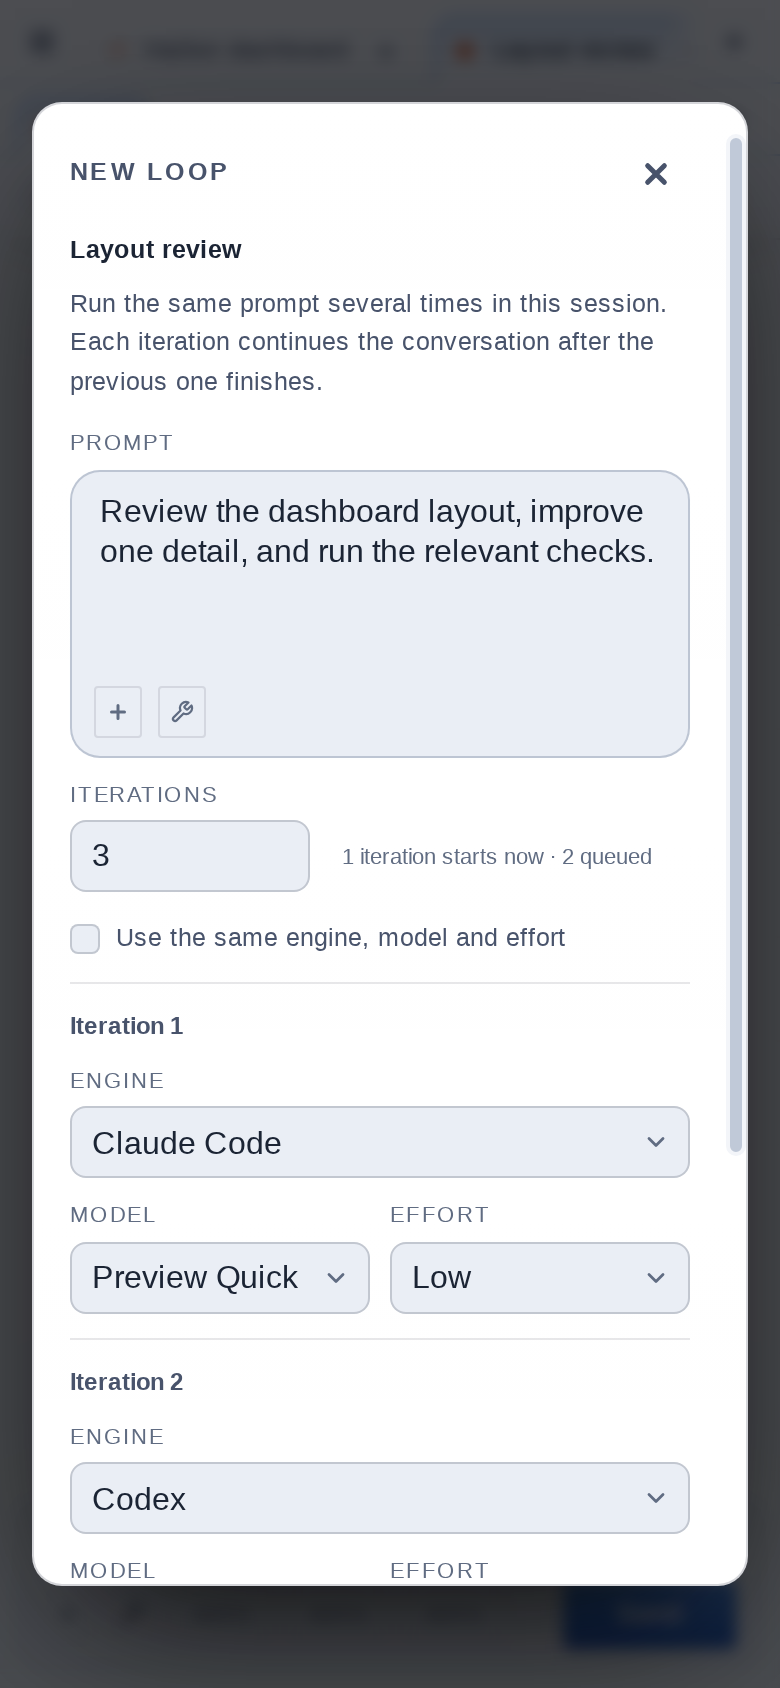
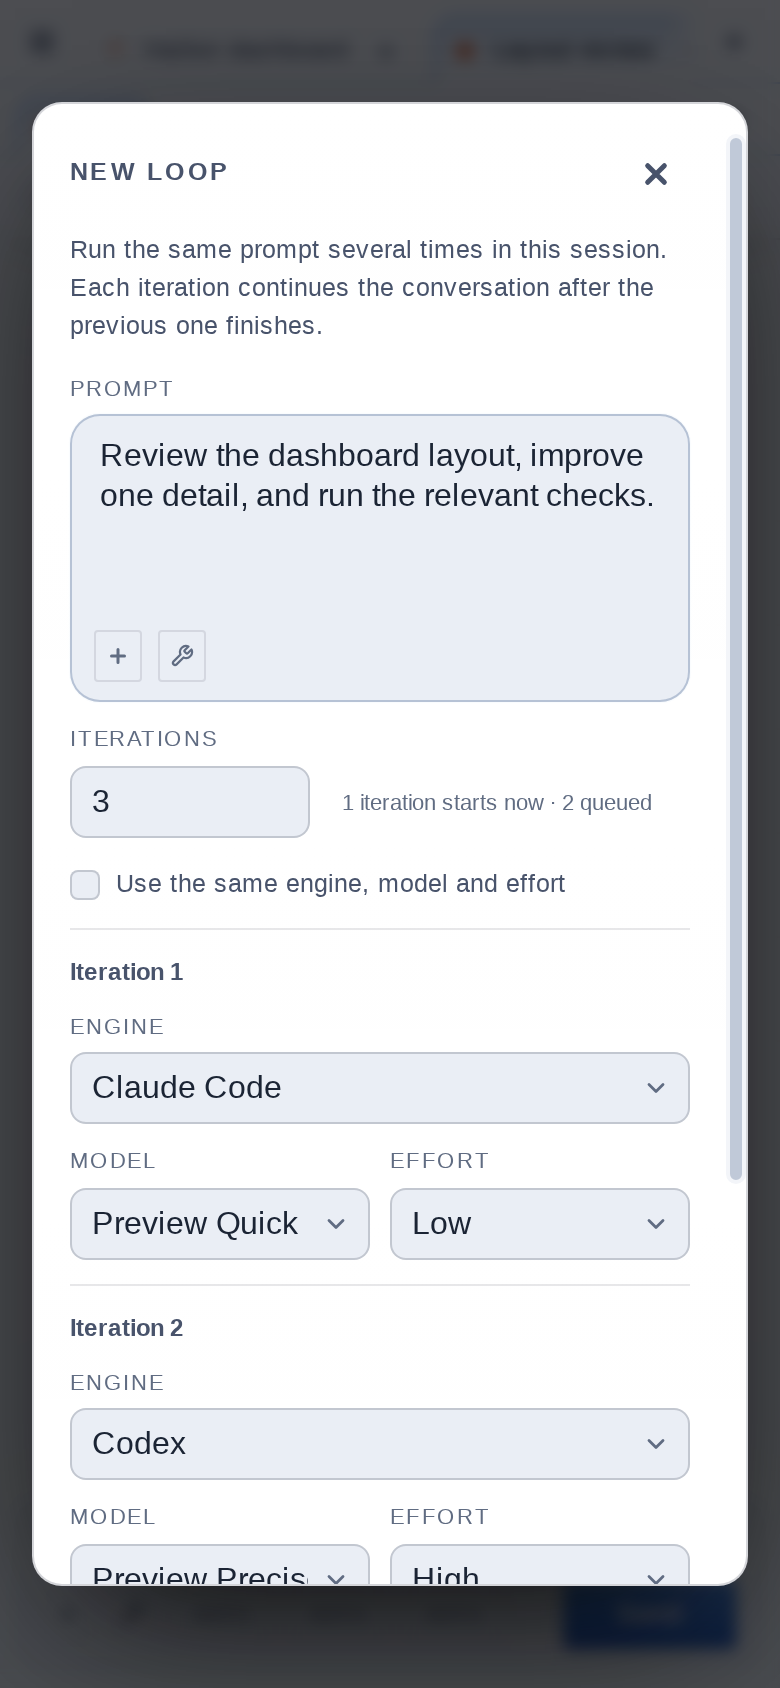
Remove session labels from loop and Git dialogs, v1.0.581
Remove the session name from New loop and the session name and location
from Git repository. Keep the shared dialog spacing and refresh the
anonymized previews, documentation and existing dialog checks.

diff --git a/puppy/static/app.js b/puppy/static/app.js
@@ -6662,23 +6662,19 @@ const SESSION_GIT_KIND_NAMES = {
    there is followed by a read, because what it managed is unknown. */
 function modalSessionGit(bid, s) {
   const { m, close } = modal(`<h2>Git repository</h2>
-    <p class="modal-copy session-git-intro"></p>
     <div class="ws-facts session-git-facts"></div>
     <div class="session-git-body"></div>
     <p class="form-error hidden" role="alert"></p>
     <div class="m-btns"><button type="button" class="btn" id="session-git-close">Close</button>
       <button type="button" class="btn" id="session-git-refresh">Refresh</button></div>`,
     "session-git-modal", () => navigationSessionDialog(bid, s.id, modalSessionGit));
-  const intro = m.querySelector(".session-git-intro"), facts = m.querySelector(".session-git-facts");
+  const facts = m.querySelector(".session-git-facts");
   const body = m.querySelector(".session-git-body"), error = m.querySelector(".form-error");
   const buttons = m.querySelector(".m-btns");
   const closeButton = m.querySelector("#session-git-close");
   const refresh = m.querySelector("#session-git-refresh");
   const actions = backendSupportsSessionGitActions(bid);
   const logs = backendSupportsSessionGitLog(bid);
-  /* the session and its directory under the title, as the agent-notes
-     editor names them */
-  intro.textContent = `${s.name || `Session ${s.id}`} · ${sessionLocationLabel(s, bid)}`;
   /* the row's record until the read answers, then the read's own */
   let record = s.git && typeof s.git === "object" ? s.git : null;
   let root = null, detail = null;
@@ -6700,8 +6696,8 @@ function modalSessionGit(bid, s) {
   };
   const renderFacts = () => {
     facts.replaceChildren();
-    /* the work tree's root, when it is not the session's own directory (the
-       intro names that one), since the paths below are relative to it */
+    /* the work tree's root, when it is not the session's own directory,
+       since the paths below are relative to it */
     if (root && root !== s.cwd) fact("Repository", root);
     const branch = sessionGitBranch(record);
     if (typeof branch === "string")
@@ -16654,7 +16650,6 @@ function modalNewLoop(bid, sid, onStarted = null) {
   let submitting = false, submitted = false, uncertain = false;
   const { m, close, onClose } = modal(`<form class="loop-form" novalidate>
     <h2>New loop</h2>
-    ${modalSubjectHtml(session.name || "This session")}
     <p class="modal-copy">Run the same prompt several times in this session. Each iteration continues the conversation after the previous one finishes.</p>
     <label for="loop-prompt" class="task-composer-lbl">Prompt</label>
     ${composerBoxHtml({ id: "loop-prompt", rows: 3, placeholder: "What should the agent do each time?",

diff --git a/tests/sidebar_ui_test.js b/tests/sidebar_ui_test.js
@@ -509,10 +509,7 @@ assert.equal(bare.document.querySelectorAll(".si-git").length, 0);
     replies = [read];
     context.modalSessionGit(0, row);
     assert.deepEqual(dialogs, ["session-git-modal"]);
-    // the session and its directory under the title, as the agent-notes
-    // editor names them
-    assert.equal(dialog.m.querySelector(".session-git-intro").textContent, "Garden · …/src");
-    assert.ok(dialog.m.querySelector(".session-git-intro").classList.contains("modal-copy"));
+    assert.equal(dialog.m.querySelector(".session-git-intro"), null);
     assert.deepEqual(facts(), [["Branch", "main", ""], ["State", "Uncommitted and unpushed work", "warn"], ["Checked", "at 5", ""]]);
     assert.deepEqual(captions(), ["Changes · 5 · 2 staged, 1 unstaged, 1 untracked, 1 conflict", "Unpushed commits · 2"]);
     assert.deepEqual(lists(), [["Loading…"], ["Loading…"]]);
@@ -602,7 +599,7 @@ assert.equal(bare.document.querySelectorAll(".si-git").length, 0);
       paths: [], commits: [], more_paths: 0, more_commits: 0 };
     replies = [{ ok: true, git: clean.git, root: "/p", detail: bare }];
     context.modalSessionGit(0, clean);
-    assert.equal(dialog.m.querySelector(".session-git-intro").textContent, "Session 2 · …/p");
+    assert.equal(dialog.m.querySelector(".session-git-intro"), null);
     await settle();
     assert.deepEqual(facts(), [["Branch", "main", ""], ["Upstream", "origin/main · up to date", ""],
       ["State", "Nothing to commit or push", "ok"], ["Checked", "at 1", ""]]);

diff --git a/tests/console_browser_test.py b/tests/console_browser_test.py
@@ -4130,21 +4130,8 @@ async def git_sheet_checks(a):
         const reviewStep = parseFloat(style(reviewFacts).rowGap);
         const reviewLabel = style(review.querySelector('.field-lbl')).fontSize;
         review.remove();
-        /* the agent-notes editor, as a probe: the voice of its intro line and
-           the steps from its title down to it and from it down to the first
-           control */
-        const notes = document.createElement('div'); notes.className = 'modal agent-notes-modal';
-        notes.innerHTML = '<div class="modal-head"><h2>Agent notes</h2><button type="button" class="icon-btn modal-close"></button></div><p class="modal-copy agent-notes-intro">Garden planner · /home/mira/projects/garden</p>'
-            + '<form><label class="check"><input type="checkbox"> Use one file for both</label></form>';
-        document.body.appendChild(notes);
-        const notesIntro = notes.querySelector('.agent-notes-intro');
-        const voice = node => [style(node).fontSize, style(node).lineHeight, style(node).color, style(node).fontFamily].join(' ');
-        const notesTitleStep = notesIntro.getBoundingClientRect().top - notes.querySelector('.modal-head').getBoundingClientRect().bottom;
-        const notesIntroStep = notes.querySelector('.check').getBoundingClientRect().top - notesIntro.getBoundingClientRect().bottom;
-        const notesVoice = voice(notesIntro), notesIntroHeight = notesIntro.getBoundingClientRect().height;
-        notes.remove();
-        const intro = m.querySelector('.session-git-intro');
         const facts = m.querySelector('.session-git-facts');
+        const head = m.querySelector('.modal-head');
         const rows = Array.from(m.querySelectorAll('.ws-fact')).map(row => row.getBoundingClientRect());
         const label = m.querySelector('.ws-fact .field-lbl'), caption = m.querySelector('.session-git-section .field-lbl');
         const kind = m.querySelector('.sgl-kind'), list = m.querySelector('.session-git-list');
@@ -4152,13 +4139,11 @@ async def git_sheet_checks(a):
         const staged = m.querySelector('.sgl-group .sgl-rows');
         const what = staged.children[0].getBoundingClientRect(), path = staged.children[1].getBoundingClientRect();
         const commit = m.querySelector('.sgl-commits');
-        return {title: m.querySelector('h2').textContent, intro: intro.textContent,
+        return {title: m.querySelector('h2').textContent, intro: !!m.querySelector('.session-git-intro'),
             facts: Array.from(m.querySelectorAll('.ws-fact')).map(row => [row.querySelector('.field-lbl').textContent, row.querySelector('.wsf-v').textContent]),
             reviewStep, factStep: parseFloat(style(facts).rowGap),
-            notesTitleStep, titleStep: intro.getBoundingClientRect().top - m.querySelector('.modal-head').getBoundingClientRect().bottom,
-            notesIntroStep, introStep: facts.getBoundingClientRect().top - intro.getBoundingClientRect().bottom,
-            notesVoice, introVoice: voice(intro),
-            notesIntroHeight, introHeight: intro.getBoundingClientRect().height,
+            titleStep: facts.getBoundingClientRect().top - head.getBoundingClientRect().bottom,
+            headMargin: parseFloat(style(head).marginBottom),
             steps: rows.slice(1).map((box, i) => box.top - rows[i].bottom),
             captionSteps: (() => {
                 const sections = Array.from(m.querySelectorAll('.session-git-section'));
@@ -4192,17 +4177,12 @@ async def git_sheet_checks(a):
                     apart: boxes[1].left - boxes[0].right > 100}; })(),
             focused: document.activeElement === m.querySelector('#session-git-close')};
     })()""")
-    assert sheet["title"] == "Git repository" and sheet["intro"] == "Garden planner · /home/mira/projects/garden", sheet
+    assert sheet["title"] == "Git repository" and not sheet["intro"], sheet
     assert sheet["facts"] == [["Branch", "main"], ["Upstream", "origin/main · 1 ahead, 2 behind"],
                               ["State", "Uncommitted and unpushed work"], ["Checked", sheet["facts"][3][1]]], sheet
     assert sheet["facts"][3][1] and sheet["stateOrange"], sheet
-    # the session and its directory under the title in the agent-notes
-    # editor's intro voice, the same step below the title and the same step
-    # above the first fact as that editor's line stands above its first
-    # control
-    assert sheet["introVoice"] == sheet["notesVoice"] and sheet["introHeight"] == sheet["notesIntroHeight"], sheet
-    assert sheet["notesTitleStep"] == 12 and sheet["titleStep"] == sheet["notesTitleStep"], sheet
-    assert sheet["notesIntroStep"] == 12 and sheet["introStep"] == sheet["notesIntroStep"], sheet
+    # the facts directly under the title at the shared modal header's step
+    assert sheet["headMargin"] == 12 and sheet["titleStep"] == sheet["headMargin"], sheet
     # the four facts one under the next at the review sheet's own step
     assert sheet["reviewStep"] == 6 and sheet["factStep"] == sheet["reviewStep"], sheet
     assert len(sheet["steps"]) == 3 and all(abs(step - sheet["reviewStep"]) < .5 for step in sheet["steps"]), sheet

diff --git a/puppy/__init__.py b/puppy/__init__.py
@@ -1,3 +1,3 @@
 """Puppy - persistent AI coding session manager for CLI coding agents."""
 
-__version__ = "1.0.580"
+__version__ = "1.0.581"

diff --git a/docs/session-git.md b/docs/session-git.md
@@ -153,9 +153,8 @@ The console opens the sheet from a repository's mark, which is a button
 (role `button`, focusable, Enter or Space) only where the node advertises
 `session-git-detail`; every other mark - no repository, not looked at yet,
 could not be checked - stays a labelled image, and a press on it is a press
-on the row. The sheet names the session and its directory under its title,
-as the agent-notes editor does and at that editor's steps, then stands in the
-review sheet's voice, its facts on that sheet's column and at its steps - the
+on the row. The sheet places its facts directly under its title in the
+review sheet's voice, on that sheet's column and at its steps - the
 work tree's root when the session sits below it, the branch (`main`, `main · no commits yet`, `HEAD
 detached at 3f9c2a1`), the upstream with `up to date`, `1 ahead`, `2 behind`
 or `1 ahead, 2 behind` (`not set` with remotes but no upstream, `no remote`

diff --git a/README.md b/README.md
@@ -245,7 +245,7 @@ reading anywhere further up is never pulled away from it.
   yet, or could not read, keeps a faint mark with the reason in its label, and
   a repository whose state `git` refuses to read keeps the plain mark with
   `git`'s reason. Click a repository's mark to see exactly what is behind it:
-  the sheet names the session and its directory, the branch, its upstream and
+  the sheet shows the branch, its upstream and
   how far ahead or behind it is, the state that gives the mark its colour, and
   lists the changes themselves -
   every path grouped as `git status` groups them (staged, unstaged, untracked,
